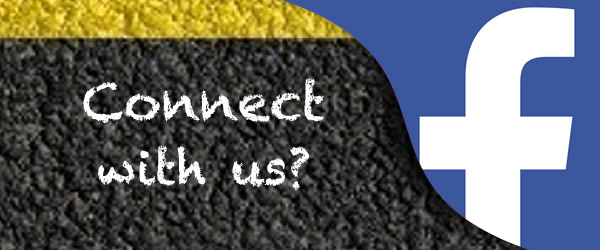
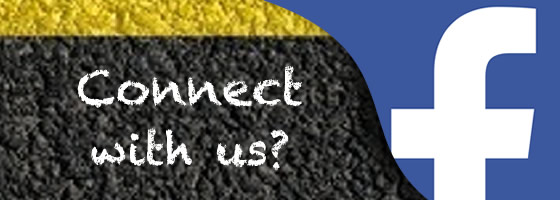
tweaks to footer graphics

diff --git a/functions/skematik-footer-functions.php b/functions/skematik-footer-functions.php
@@ -101,9 +101,9 @@ $ftr_widgets = get_theme_mod( 'footer_widgets_number', 4 );
 // }
 
 echo '<div class="row">
-		<div class="col-sm-4"><div class="textwidget"><a href="/c/quote"><img src="/wp-content/themes/bs3/assets/img/footer_wi@2x.jpg" width="300"></a></div></div>
-		<div class="col-sm-4"><div class="textwidget"><a href="http://fb.com/pages/Asphalt-Seal-Repair/341749302525789"><img src="/wp-content/themes/bs3/assets/img/footer_fb_connect@2x.jpg" width="300"></a></div></div>
-		<div class="col-sm-4"><div class="textwidget"><img src="/wp-content/themes/bs3/assets/img/footer_eco@2x.jpg" width="300"></div></div>
+		<div class="col-sm-4"><div class="textwidget"><a href="/c/quote"><img src="/wp-content/themes/bs3/assets/img/footer_wi@2x.jpg" width="280"></a></div></div>
+		<div class="col-sm-4"><div class="textwidget"><a href="http://fb.com/pages/Asphalt-Seal-Repair/341749302525789"><img src="/wp-content/themes/bs3/assets/img/footer_fb_connect@2x.jpg" width="280"></a></div></div>
+		<div class="col-sm-4"><div class="textwidget"><img src="/wp-content/themes/bs3/assets/img/footer_eco@2x.jpg" width="280"></div></div>
 	</div>';
 }
 
